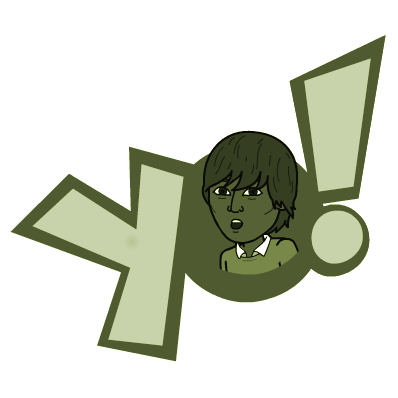
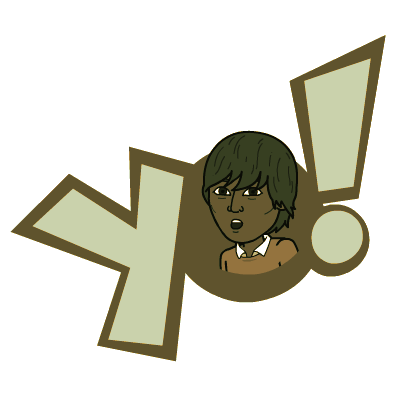
more content for dev and pub

Changed region(s): [[0.5427, 0.603, 0.7538, 0.6935]]

diff --git a/index.html b/index.html
@@ -2,7 +2,7 @@
 <html lang="en"><!--+++++++++++++++++++++++++++++++++++++++++++++++++++++++++++
           /\
          (..)             Powered by thatsparrow
-      .++.\/.++.          Last updated: June 2017
+      .++.\/.++.          Last updated: 20 June 2017
      (/`\_\/_/`\)         Acer Chromebook 11 CB3-111 running Gallium OS 2.1
      '  {____}  '         @Sparrow, Founder & Software Architect
         '-\/-'            @Dentsu Aegis Network, Public Relations Executive
@@ -40,8 +40,9 @@
   <link rel="shortcut icon" href="/img/ico/favicon.ico">
   <meta name="msapplication-config" content="/img/ico/browserconfig.xml">
   <link rel="stylesheet" href="css/scrolling-nav.css">  <!-- CSS for navigation bar -->
+  <link rel="stylesheet" href="https://cdnjs.cloudflare.com/ajax/libs/font-awesome/4.7.0/css/font-awesome.min.css"> <!-- CSS for social icons -->
   <link rel="stylesheet" href="https://maxcdn.bootstrapcdn.com/bootstrap/3.3.7/css/bootstrap.min.css">
-  <link href="https://fonts.googleapis.com/css?family=Quicksand:500" rel="stylesheet"> <!-- Custom Font from Google -->
+  <link href="https://fonts.googleapis.com/css?family=Quicksand:500" rel="stylesheet"> <!-- Custom font from Google -->
   <!--<link href='http://fonts.googleapis.com/css?family=Oswald:400,300,700' rel='stylesheet' type='text/css'>!-->
   <script src="js/jquery-3.2.1.js"></script>
   <script src="https://maxcdn.bootstrapcdn.com/bootstrap/3.3.7/js/bootstrap.min.js"></script>
@@ -85,8 +86,8 @@
         <div class="row">
           <div class="col-lg-12">
 
-            <img src="img/thatsparrow_bitmoji2.png" alt="A bitmoji of Jann" height="280" width="280" class="w3-round"><p>
-              <h1>How's it going? I'm <strong>Jann</strong> . . .<br><small>pronounced /jɑːən/</small></h1>
+            <img src="img/thatsparrow_bitmoji4.png" alt="A bitmoji of Jann" height="280" width="280" class="w3-round"><p>
+              <h1>How's it going? I'm <strong>Jann</strong> <br><small>pronounced /jɑːən/</small></h1>
               <h3>I patch <code>#code</code>, draft press releases and listen to <a href="http://www.anjunadeep.com/">anjunadeep</a>—usually.
                 <br>I spend the rest of my time reclining on my favourite chair: scraping data from the web or writing case studies on SMEs.
               </h3>
@@ -94,10 +95,11 @@
 
                 <address> <!-- !!! This is the 'call-to-action' excerpt. Might embed some icons, meh. -->
                   <div>
-                    <a href="https://snapchat.com/add/koiziv" target=_blank class="topbutton btn btn-sm btn-default">Snapchat</a>
-                    <a href="https://instagram.com/thatsparrow" target=_blank class="topbutton btn btn-sm btn-default">Instagram</a>
-                    <a href="https://github.com/thatsparrow"  target=_blank class="topbutton btn btn-sm btn-default">Github</a>
-                    <a href="https://medium.com/@thatsparrow" target=_blank class="topbutton btn btn-sm btn-default">Medium</a>
+                    <a href="https://snapchat.com/add/koiziv" target=_blank class="fa fa-snapchat-square" style="font-size:36px"></a>
+                    <a href="https://instagram.com/thatsparrow" target=_blank class="fa fa-instagram" style="font-size:36px"></a>
+                    <a href="https://github.com/thatsparrow"  target=_blank class="fa fa-github" style="font-size:36px"></a>
+                    <a href="https://open.spotify.com/user/121251966" target=_blank  class="fa fa-spotify" style="font-size:36px"></a>
+                    <a href="https://api.whatsapp.com/send?phone=940766970959" target=_blank  class="fa fa-whatsapp" style="font-size:36px"></a>
                   </div>
                 </address>
 
@@ -111,34 +113,53 @@
     <div class="container">
       <div class="row">
         <div class="col-lg-12"> <!-- !!! Note: 1:3 top-down layout for this section -->
-          <h2 class="text-center">Luckily for you, I craft <strong><em>open-source</em></strong> software to keep my <strong><em>sanity</em></strong> in check</h2>
-          <div class="container text-center">
+          <h2 class="text-right">Luckily for you, I craft <strong><em>open-source</em></strong> software to keep my <strong><em>sanity</em></strong> in check</h2>
+
+          <div class="container text-left">
           <p>
           <a href="https://github.com/thatsparrow/web" class="btn btn-default" role="button">Web</a>
           <a href="https://github.com/thatsparrow/android" class="btn btn-default" role="button">Android</a>
           <a href="https://github.com/thatsparrow/ios" class="btn btn-default" role="button">iOS</a>
           <a href="https://github.com/thatsparrow?tab=repositories" class="btn btn-default" role="button">Other</a>
-          @<a id="devwork1" href="https://sparrow.io/">Sparrow Dev</a>
+          @<a id="devwork1" href="https://sparrow.io/">Sorta</a>
           @<a id="devwork2" href="https://heroku.com/">Heroku</a>
           @<a id="devwork3" href="https://scripps.ucsd.edu/resources-and-facilities/research-facilities/">SIO Research Facilities</a>
           <p>
           </div>
+
+          <div class="container text-left">
+            <p>
+              I've been developing various applications for multiple platforms including web, mobile and desktop
+              since I was at the age of 15.<br />Yet I have never been "passionate" over it. Don’t get me wrong.
+              I wouldn’t be here if I didn’t enjoy it. But it’s NOT my passion. <br/>
+              It’s just a hobby that pays well. And it enables me to do what I want to do that I’m actually <a id="passion" href="#writer">passionate</a> about.<br />
+            </p>
+            <p>
+              My experiences (7+ years) as a developer include work and collaboration with several B2B (13+) and private (45+) clients due to
+              my innate and "self-absorbing" ability to plan, design, implement and test something and see it come to life. Lately, I've been accepting assignments
+              as a contractor for a software-development-solutions startup called Sorta. And as an aside: full-time employment is this field is not my cup of tea.
+            </p>
+            <p>
+            Anyways... I work with a wide range of platforms and tools, including:
+
+          </div>
+
 
           <div class="col-md-4"> <!-- !!! First column -->
             <div class="panel panel-default">
               <div class="panel-heading text-center">Languages + Platforms</div>
               <div class="panel-body">
                 <ul class="text-left skill-list">
-                  <li>HTML5 <span class="label label-info">Active</span></li>
-                  <li>Javascript <span class="label label-info">Active</span></li>
-                  <li>CSS <span class="label label-info">Active</span></li>
-                  <li>PHP <span class="label label-info">Active</span></li>
+                  <li>HTML5 <span class="label label-danger">Active</span></li>
+                  <li>Javascript <span class="label label-danger">Active</span></li>
+                  <li>CSS <span class="label label-danger">Active</span></li>
+                  <li>PHP <span class="label label-danger">Active</span></li>
                   <li>SQL</li>
                   <li>Node.js</li>
                   <li>C/ C++</li>
-                  <li>Java <span class="label label-info">Active</span></li>
+                  <li>Java <span class="label label-danger">Active</span></li>
                   <li>Golang</li>
-                  <li>Python <span class="label label-info">Active</span></li>
+                  <li>Python <span class="label label-danger">Active</span></li>
                   <li>Fortran</li>
                   <li>MATLAB</li>
                   <li>Mathematica</li>
@@ -154,13 +175,13 @@
               <div class="panel-body">
                 <ul class="text-left skill-list">
                   <li>Wordpress</li>
-                  <li>Django <span class="label label-info">Active</span></li>
-                  <li>web2py <span class="label label-info">Active</span></li>
-                  <li>Bootstrap/ Semantic UI <span class="label label-info">Active</span></li>
+                  <li>Django <span class="label label-danger">Active</span></li>
+                  <li>web2py <span class="label label-danger">Active</span></li>
+                  <li>Bootstrap/ Semantic UI <span class="label label-danger">Active</span></li>
                   <li>ReactJS / Redux</li>
                   <li>AngularJS</li>
-                  <li>jQuery <span class="label label-info">Active</span></li>
-                  <li>Android SDK <span class="label label-info">Active</span></li>
+                  <li>jQuery <span class="label label-danger">Active</span></li>
+                  <li>Android SDK <span class="label label-danger">Active</span></li>
                   <li>Swift</li>
                   <li>SCSS/ SASS</li>
                   <li>JS Tooling (Webpack, NPM etc.)</li>
@@ -176,18 +197,23 @@
               <div class="panel-body">
                 <ul class="text-left skill-list">
                   <li>Adobe Illustrator, Photoshop</li>
-                  <li>GIMP <span class="label label-info">Active</span></li>
-                  <li>Unix Terminal/ SSH <span class="label label-info">Active</span></li>
-                  <li>Git <span class="label label-info">Active</span></li>
-                  <li>Atom/ Gedit <span class="label label-info">Active</span></li>
+                  <li>GIMP <span class="label label-danger">Active</span></li>
+                  <li>Unix Terminal/ SSH <span class="label label-danger">Active</span></li>
+                  <li>Git <span class="label label-danger">Active</span></li>
+                  <li>Atom/ Gedit <span class="label label-danger">Active</span></li>
                   <li>Linux System Administration</li>
-                  <li>Virtualization Platforms <span class="label label-info">Active</span></li>
+                  <li>Virtualization Platforms <span class="label label-danger">Active</span></li>
                   <li>Arduino</li>
-                  <li>Raspberry Pi <span class="label label-info">Active</span></li>
+                  <li>Raspberry Pi <span class="label label-danger">Active</span></li>
                 </ul>
               </div>
             </div>
           </div>
+
+
+
+
+
 
         </div>
       </div>
@@ -199,16 +225,36 @@
       <div class="row">
         <div class="col-lg-12">
           <p class="spacing">
-            <h2 class="text-center">I've got over one-hundred press releases and case studies <strong><em>published</em></strong></h2>
+            <h2 class="text-right">I have over one-hundred press releases and case studies <strong><em>published</em></strong></h2>
 
-            <div class="container text-center">
+            <p>
+            I am currently an executive publicist at Grant Public Relations @<a id="work" href="http://www.dentsuaegisnetwork.com/">Dentsu Aegis Network</a> with 3 years
+            in the publishing industry.  <br />And I sorta like what I do! I currently reside in Mount Lavinia, Sri Lanka. <br />
+            </p>
+            <p>
+              Publicity experiences over the years include work and collaboration
+              with boutique publishing imprints, houses, and a PR agency including The Koala, San Diego Magazine,
+              Lockernome, San Diego Writers Ink, FT Press, Wharton Digital Press, Hudson West PR, Open Book Publicity,
+              Slate-PR, Wunderkind PR, G.P. Putnam's Sons.
+            </p>
+            <p>
+            I've had the pleasure of working with a wide range of clients, including:
+
+            <div class="container text-left">
               <p>
                 <a href="https://microsoft.com/en-lk" class="btn btn-default" role="button">Microsoft</a>
-                <a href="https://metropolitan.lk" class="btn btn-default" role="button">Metropolitan</a>
+              </p>
+              <p>
+              <a href="https://metropolitan.lk" class="btn btn-default" role="button">Metropolitan</a>
+              </p>
+              <p>
                 <a href="https://rb.com" class="btn btn-default" role="button">Reckitt Benckiser</a>
+              </p>
+              <p>
                 <a href="https://shangri-la.com/hambantota/shangrila" class="btn btn-default" role="button">Shangri-La</a>
+              </p>
+              <p>
                 <a href="https://dell.com" class="btn btn-default" role="button">Dell</a>
-                @<a id="work" href="http://www.dentsuaegisnetwork.com/">Dentsu Aegis Network</a>
               </p>
             </div>
 
@@ -224,13 +270,16 @@
             <!-- Wrapper for slides -->
             <div class="carousel-inner">
               <div class="item active">
-                <img src="img/pr/thatsparrow_worksamples.png" alt="Hela Clothing; Microsoft" style="width:100%;">
+                <img src="img/pr/thatsparrow_riceandcarry.png" alt="Windows Device Day 2017" style="width:100%;">
               </div>
               <div class="item">
-                <img src="img/pr/thatsparrow_worksamples.png" alt="Laugfs Group; Microsoft" style="width:100%;">
+                <img src="img/pr/thatsparrow_helaclothing.png" alt="Hela Clothing; Microsoft" style="width:100%;">
               </div>
               <div class="item">
-                <img src="img/pr/thatsparrow_worksamples.png" alt="Azure Day 2017" style="width:100%;">
+                <img src="img/pr/thatsparrow_laugfs.png" alt="Laugfs Group; Microsoft" style="width:100%;">
+              </div>
+              <div class="item">
+                <img src="img/pr/thatsparrow_azure.png" alt="Azure Day 2017" style="width:100%;">
               </div>
               <div class="item">
                 <img src="img/pr/thatsparrow_dettol.png" alt="Dettol Clean Hands, Clean Nation" style="width:100%;">
@@ -266,6 +315,7 @@
               <div class="panel-heading text-center">References</div>
               <div class="panel-body">
                 <ul class="text-left skill-list">
+                  <li><a href="http://www.island.lk/index.php?page_cat=article-details&page=article-details&code_title=166754">Soaring to great heights via secured digital transformation</a> <i>The Island, Daily News</i> June 16, 2017.</li>
                   <li><a href="http://www.ft.lk/article/621392/Microsoft-BizSpark-reinforces-vision-for-%E2%80%98Gudppl%E2%80%99">Microsoft BizSpark reinforces vision for ‘Gudppl’</a> <i>Daily FT</i> June 12, 2017.</li>
                   <li><a href="http://www.sandiegomagazine.com/San-Diego-Magazine/July-2014/Things-to-Do-July-21-27/">Things to Do: July 21-27</a> <i>San Diego Magazine</i> July 21, 2014.</li>
                   <li><a href="https://chomsky.info/20150120/">Chomsky: Paris attacks show hypocrisy of West&#8217;s outrage.</a> <i>CNN.com.</i> January 20, 2015.</li>
@@ -341,7 +391,7 @@
     $(document).ready(function() {
         $('.carousel').carousel('pause');
     });
-</script>
+  </script>
 <!--++++++++++++++++++++++++++++++++++++++++++++++++++++++++++++++++++++++++-->
 </body>
 <!--++++++++++++++++++++++++++++++++++++++++++++++++++++++++++++++++++++++++-->

diff --git a/css/scrolling-nav.css b/css/scrolling-nav.css
@@ -32,12 +32,17 @@ html {
         padding: 0px;
     }
 }
+a:hover,
+.a:hover {
+   text-decoration: none !important;
+}
 .about-section {
     height: auto;
     padding-top: 60px;
     padding-bottom: 50px;
     text-align: left;
     background: #FFFFFF;
+    /*background-image: url("file:///home/sparrow/thatsparrow.github.io/img/giphy2.gif"); */
 }
 .developer-section {
     height: auto;
@@ -50,7 +55,7 @@ html {
     height: auto;
     padding-top: 50px;
     padding-bottom: 50px;
-    text-align: center;
+    text-align: left;
     background: #FFFFFF;
 }
 .writer-section {
@@ -71,26 +76,23 @@ h1, h2, h3, h4, h5, h6 {
 }
 p, div {
     font-family: 'Quicksand', sans-serif;
-}
-.carousel-control.left, .carousel-control.right {
-   background-image:none !important;
-   filter:none !important;
+
 }
 .carousel-indicators li {
     display: inline-block;
-    width: 48px;
-    height: 48px;
+    width: 96px;
+    height: 96px;
     margin: 10px;
     text-indent: 0;
     cursor: pointer;
     border: none;
     border-radius: 50%;
-    background-color: #ffffff;
+    background-color: #000000;
     box-shadow: inset 1px 1px 1px 1px rgba(0,0,0,0.5);
 }
 .carousel-indicators .active {
-    width: 48px;
-    height: 48px;
+    width: 96px;
+    height: 96px;
     margin: 10px;
-    background-color: #ffff99;
+    background-color: #000000;
 }
